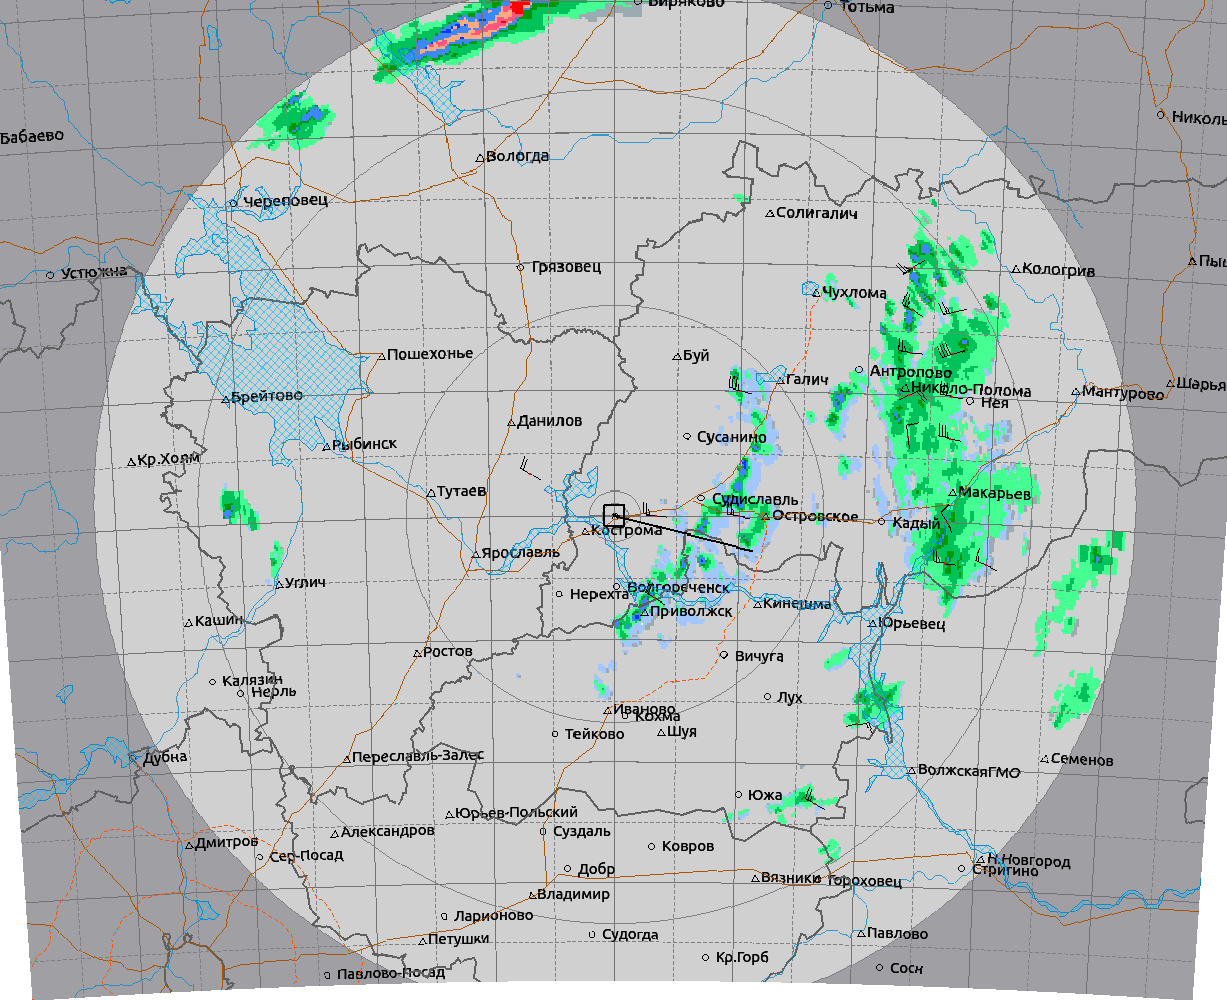
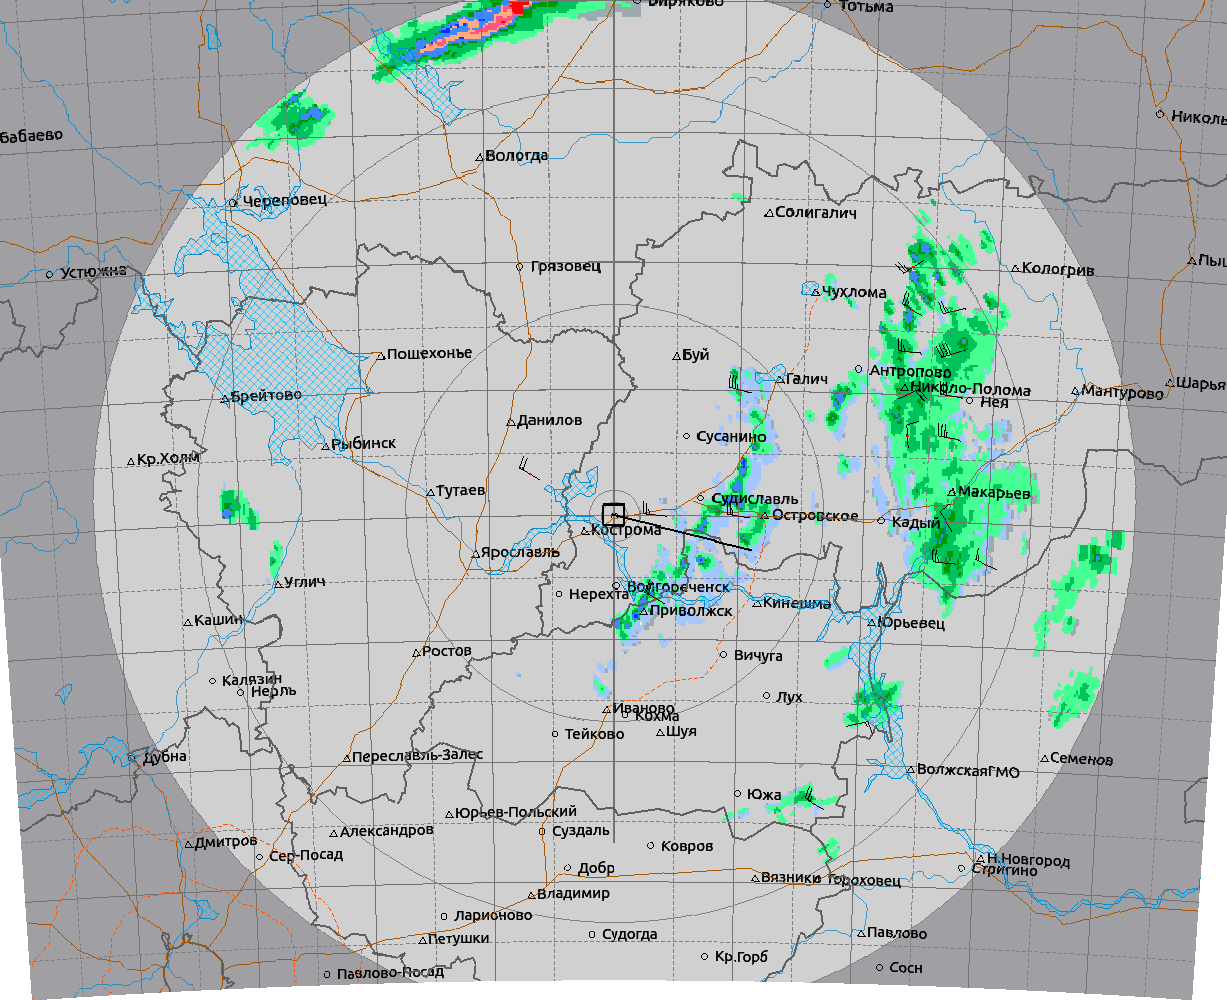
Better alignment of NN, Kstr and Msk

diff --git a/main.html b/main.html
@@ -18,8 +18,8 @@
             source: new ol.source.MapQuest({layer: 'osm'})
         });
 
-        var extent1 = [4364696.706983571, 7196099.93438077]
-        var extent2 = [5426605.028042602, 8062618.0504191]
+        var extent1 = [4363717.48, 7196556.306]
+        var extent2 = [5427495.549, 8063129.045]
         var extent = [extent1[0], extent1[1], extent2[0], extent2[1]];
         var imageLayerNN = new ol.layer.Image({
             source: new ol.source.ImageStatic({
@@ -29,8 +29,8 @@
             opacity: 0.5
          });
 
-        var extent1 = [4017502.552186516, 7492596.015724386]
-        var extent2 = [5114261.924068971, 8388732.016104072]
+        var extent1 = [4012117.97, 7487716.629]
+        var extent2 = [5119869.004, 8390227.806]
         var extent = [extent1[0], extent1[1], extent2[0], extent2[1]];
         var imageLayerK = new ol.layer.Image({
             source: new ol.source.ImageStatic({
@@ -40,8 +40,8 @@
             opacity: 0.5
          });
 
-        var extent1 = [3658211.2684835396, 7074804.292184441]
-        var extent2 = [4701661.186943608, 7926050.830921172]
+        var extent1 = [3656881.616, 7074384.011]
+        var extent2 = [4702991.155, 7926520.428]
         var extent = [extent1[0], extent1[1], extent2[0], extent2[1]];
         var imageLayerP = new ol.layer.Image({
             source: new ol.source.ImageStatic({

diff --git a/convert.cpp b/convert.cpp
@@ -94,12 +94,19 @@ Image transformProjection(const Image& source, point earthCenterDeg, point sourc
                 targetTopLeft.y + ((targetBotRight.y-targetTopLeft.y) * (targetHeight-targetYpx)) / targetHeight
             };
             point sourceXY = transform(targetProj, sourceProj, targetXY);
-            int sourceXpx = int(sourceXY.x * sourcePixelPerRad + sourceCenter.x);
-            int sourceYpx = int(-sourceXY.y * sourcePixelPerRad + sourceCenter.y);
+            int sourceXpx = int(sourceXY.x * sourcePixelPerRad + sourceCenter.x + 0.5);
+            int sourceYpx = int(-sourceXY.y * sourcePixelPerRad + sourceCenter.y + 0.5);
             if (sourceXpx>=0 && sourceXpx<source.cols && sourceYpx>=0 && sourceYpx<source.rows)
                 target(targetYpx, targetXpx) = source(sourceYpx, sourceXpx);
         }
-        
+    
+/*
+    point targetCenter = transform(sourceProj, targetProj, point{0,0});
+    int targetXpx = int((targetCenter.x - targetTopLeft.x)/(targetBotRight.x-targetTopLeft.x)*targetWidth + 0.5);
+    int targetYpx = int((targetBotRight.y-targetCenter.y)/(targetBotRight.y-targetTopLeft.y)*targetHeight + 0.5);
+    cout << "targetCenter: " << targetXpx << " " << targetYpx << endl;
+    target(targetYpx, targetXpx) = Vec4b(255,0,255,255);
+*/        
     cout << "Corner-coordinates of result: " << targetTopLeft << " " << targetBotRight << endl;
 
     return target;
